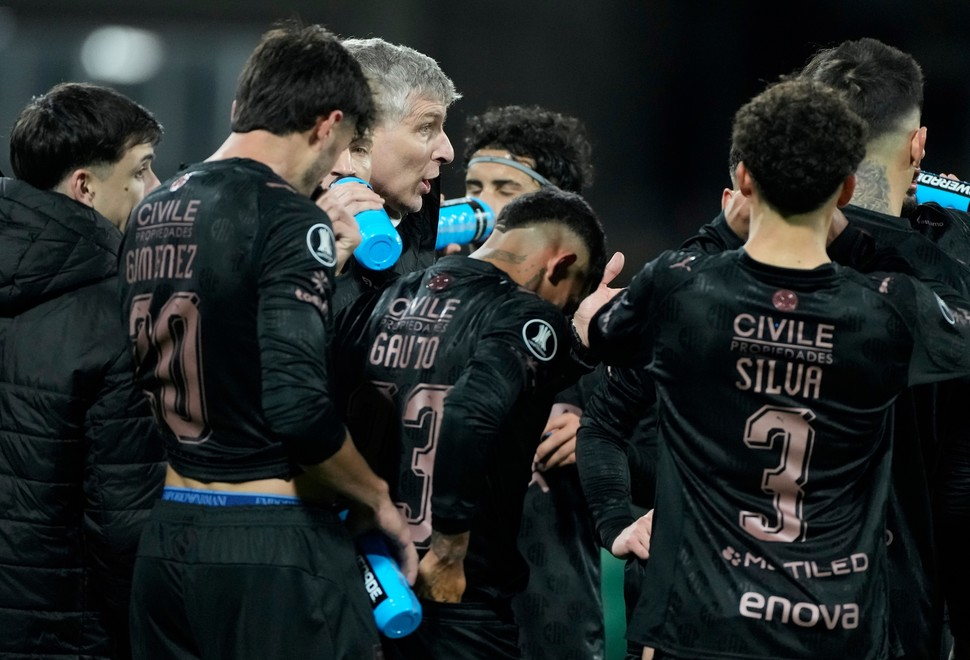
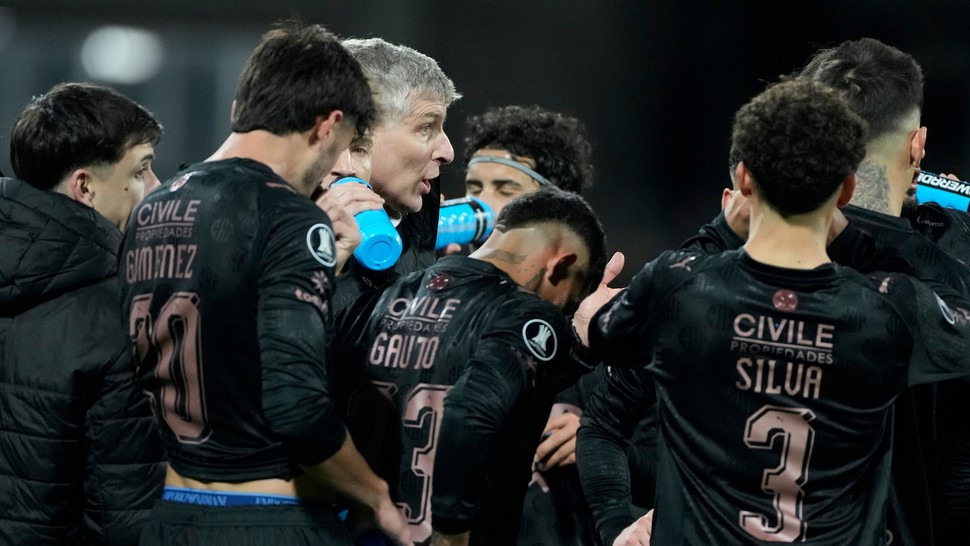
La página ahora es capaz de cargar noticias de manera dinámica

diff --git a/src/Noticia.jsx b/src/Noticia.jsx
@@ -1,13 +1,40 @@
 import { useParams } from "react-router";
+import { useState, useEffect } from 'react';
 import BarraNavegación from "./BarraNavegacion";
 import * as Recibir from "./Noticias";
 import PersonalizarLectura from "./PersonalizarLecturaPopup";
 
-export default function Noticia ({}) { 
+
+export default function Noticia () {
 	const params = useParams();
 	const id = params.noti;
 	const NOTI_INFO = Recibir.noticias[id];
 
+	const [text, setText] = useState(null);
+	
+	
+	async function get_text(id){
+		const module = await import(`/src/assets/noticias/${id}.jsx`);
+		console.log(module);
+		const text = module.Devolver();
+		return (text);
+	}
+	
+	useEffect(() => {
+		let ignore = false;
+		get_text(id).then(r => {
+			if (!ignore) {
+				setText(r);
+			}
+		});
+		
+		return () => {
+			ignore = true;
+		};
+	}, [id]);
+	
+	
+	
 	return (
 		<div>
 			<BarraNavegación />
@@ -28,43 +55,8 @@ export default function Noticia ({}) {
 					<div>{NOTI_INFO.medio + " ⋅ " + NOTI_INFO.categorias}</div>
 					<div className="md:hidden">{NOTI_INFO.descripcion}</div>
 					
-					Lorem ipsum (/ˌlɔː.rəm ˈɪp.səm/ LOR-əm IP-səm) is a dummy or placeholder text commonly used in graphic design, publishing, and web development. It is typically a corrupted version of De finibus bonorum et malorum, a 1st-century BC text by the Roman statesman and philosopher Cicero, with words altered, added, and removed to make it nonsensical and improper Latin. The first two words are the truncation of dolorem ipsum ("pain itself"). Lorem ipsum's purpose is to permit a page layout to be designed, independently of the copy that will subsequently populate it, or to demonstrate various fonts of a typeface without meaningful text that could be distracting.<br />
-					Versions of the Lorem ipsum text have been used in typesetting since the late 1960s, when Letraset transfer sheets containing the placeholder text popularized it.[1] Popular word processors, including Pages and Microsoft Word, have since adopted Lorem ipsum,[2] as have many LaTeX packages,[3][4][5] web content managers such as Joomla! and WordPress, and CSS libraries such as Semantic UI.[not in body]<br />
-					Lorem ipsum (/ˌlɔː.rəm ˈɪp.səm/ LOR-əm IP-səm) is a dummy or placeholder text commonly used in graphic design, publishing, and web development. It is typically a corrupted version of De finibus bonorum et malorum, a 1st-century BC text by the Roman statesman and philosopher Cicero, with words altered, added, and removed to make it nonsensical and improper Latin. The first two words are the truncation of dolorem ipsum ("pain itself"). Lorem ipsum's purpose is to permit a page layout to be designed, independently of the copy that will subsequently populate it, or to demonstrate various fonts of a typeface without meaningful text that could be distracting.<br />
-					Versions of the Lorem ipsum text have been used in typesetting since the late 1960s, when Letraset transfer sheets containing the placeholder text popularized it.[1] Popular word processors, including Pages and Microsoft Word, have since adopted Lorem ipsum,[2] as have many LaTeX packages,[3][4][5] web content managers such as Joomla! and WordPress, and CSS libraries such as Semantic UI.[not in body]<br />
-					Lorem ipsum (/ˌlɔː.rəm ˈɪp.səm/ LOR-əm IP-səm) is a dummy or placeholder text commonly used in graphic design, publishing, and web development. It is typically a corrupted version of De finibus bonorum et malorum, a 1st-century BC text by the Roman statesman and philosopher Cicero, with words altered, added, and removed to make it nonsensical and improper Latin. The first two words are the truncation of dolorem ipsum ("pain itself"). Lorem ipsum's purpose is to permit a page layout to be designed, independently of the copy that will subsequently populate it, or to demonstrate various fonts of a typeface without meaningful text that could be distracting.<br />
-					Versions of the Lorem ipsum text have been used in typesetting since the late 1960s, when Letraset transfer sheets containing the placeholder text popularized it.[1] Popular word processors, including Pages and Microsoft Word, have since adopted Lorem ipsum,[2] as have many LaTeX packages,[3][4][5] web content managers such as Joomla! and WordPress, and CSS libraries such as Semantic UI.[not in body]<br />
-					Lorem ipsum (/ˌlɔː.rəm ˈɪp.səm/ LOR-əm IP-səm) is a dummy or placeholder text commonly used in graphic design, publishing, and web development. It is typically a corrupted version of De finibus bonorum et malorum, a 1st-century BC text by the Roman statesman and philosopher Cicero, with words altered, added, and removed to make it nonsensical and improper Latin. The first two words are the truncation of dolorem ipsum ("pain itself"). Lorem ipsum's purpose is to permit a page layout to be designed, independently of the copy that will subsequently populate it, or to demonstrate various fonts of a typeface without meaningful text that could be distracting.<br />
-					Versions of the Lorem ipsum text have been used in typesetting since the late 1960s, when Letraset transfer sheets containing the placeholder text popularized it.[1] Popular word processors, including Pages and Microsoft Word, have since adopted Lorem ipsum,[2] as have many LaTeX packages,[3][4][5] web content managers such as Joomla! and WordPress, and CSS libraries such as Semantic UI.[not in body]<br />
-					Lorem ipsum (/ˌlɔː.rəm ˈɪp.səm/ LOR-əm IP-səm) is a dummy or placeholder text commonly used in graphic design, publishing, and web development. It is typically a corrupted version of De finibus bonorum et malorum, a 1st-century BC text by the Roman statesman and philosopher Cicero, with words altered, added, and removed to make it nonsensical and improper Latin. The first two words are the truncation of dolorem ipsum ("pain itself"). Lorem ipsum's purpose is to permit a page layout to be designed, independently of the copy that will subsequently populate it, or to demonstrate various fonts of a typeface without meaningful text that could be distracting.<br />
-					Versions of the Lorem ipsum text have been used in typesetting since the late 1960s, when Letraset transfer sheets containing the placeholder text popularized it.[1] Popular word processors, including Pages and Microsoft Word, have since adopted Lorem ipsum,[2] as have many LaTeX packages,[3][4][5] web content managers such as Joomla! and WordPress, and CSS libraries such as Semantic UI.[not in body]<br />
-					Lorem ipsum (/ˌlɔː.rəm ˈɪp.səm/ LOR-əm IP-səm) is a dummy or placeholder text commonly used in graphic design, publishing, and web development. It is typically a corrupted version of De finibus bonorum et malorum, a 1st-century BC text by the Roman statesman and philosopher Cicero, with words altered, added, and removed to make it nonsensical and improper Latin. The first two words are the truncation of dolorem ipsum ("pain itself"). Lorem ipsum's purpose is to permit a page layout to be designed, independently of the copy that will subsequently populate it, or to demonstrate various fonts of a typeface without meaningful text that could be distracting.<br />
-					Versions of the Lorem ipsum text have been used in typesetting since the late 1960s, when Letraset transfer sheets containing the placeholder text popularized it.[1] Popular word processors, including Pages and Microsoft Word, have since adopted Lorem ipsum,[2] as have many LaTeX packages,[3][4][5] web content managers such as Joomla! and WordPress, and CSS libraries such as Semantic UI.[not in body]<br />
-					Lorem ipsum (/ˌlɔː.rəm ˈɪp.səm/ LOR-əm IP-səm) is a dummy or placeholder text commonly used in graphic design, publishing, and web development. It is typically a corrupted version of De finibus bonorum et malorum, a 1st-century BC text by the Roman statesman and philosopher Cicero, with words altered, added, and removed to make it nonsensical and improper Latin. The first two words are the truncation of dolorem ipsum ("pain itself"). Lorem ipsum's purpose is to permit a page layout to be designed, independently of the copy that will subsequently populate it, or to demonstrate various fonts of a typeface without meaningful text that could be distracting.<br />
-					Versions of the Lorem ipsum text have been used in typesetting since the late 1960s, when Letraset transfer sheets containing the placeholder text popularized it.[1] Popular word processors, including Pages and Microsoft Word, have since adopted Lorem ipsum,[2] as have many LaTeX packages,[3][4][5] web content managers such as Joomla! and WordPress, and CSS libraries such as Semantic UI.[not in body]<br />
-					Lorem ipsum (/ˌlɔː.rəm ˈɪp.səm/ LOR-əm IP-səm) is a dummy or placeholder text commonly used in graphic design, publishing, and web development. It is typically a corrupted version of De finibus bonorum et malorum, a 1st-century BC text by the Roman statesman and philosopher Cicero, with words altered, added, and removed to make it nonsensical and improper Latin. The first two words are the truncation of dolorem ipsum ("pain itself"). Lorem ipsum's purpose is to permit a page layout to be designed, independently of the copy that will subsequently populate it, or to demonstrate various fonts of a typeface without meaningful text that could be distracting.<br />
-					Versions of the Lorem ipsum text have been used in typesetting since the late 1960s, when Letraset transfer sheets containing the placeholder text popularized it.[1] Popular word processors, including Pages and Microsoft Word, have since adopted Lorem ipsum,[2] as have many LaTeX packages,[3][4][5] web content managers such as Joomla! and WordPress, and CSS libraries such as Semantic UI.[not in body]<br />
-					Lorem ipsum (/ˌlɔː.rəm ˈɪp.səm/ LOR-əm IP-səm) is a dummy or placeholder text commonly used in graphic design, publishing, and web development. It is typically a corrupted version of De finibus bonorum et malorum, a 1st-century BC text by the Roman statesman and philosopher Cicero, with words altered, added, and removed to make it nonsensical and improper Latin. The first two words are the truncation of dolorem ipsum ("pain itself"). Lorem ipsum's purpose is to permit a page layout to be designed, independently of the copy that will subsequently populate it, or to demonstrate various fonts of a typeface without meaningful text that could be distracting.<br />
-					Versions of the Lorem ipsum text have been used in typesetting since the late 1960s, when Letraset transfer sheets containing the placeholder text popularized it.[1] Popular word processors, including Pages and Microsoft Word, have since adopted Lorem ipsum,[2] as have many LaTeX packages,[3][4][5] web content managers such as Joomla! and WordPress, and CSS libraries such as Semantic UI.[not in body]<br />
-					Lorem ipsum (/ˌlɔː.rəm ˈɪp.səm/ LOR-əm IP-səm) is a dummy or placeholder text commonly used in graphic design, publishing, and web development. It is typically a corrupted version of De finibus bonorum et malorum, a 1st-century BC text by the Roman statesman and philosopher Cicero, with words altered, added, and removed to make it nonsensical and improper Latin. The first two words are the truncation of dolorem ipsum ("pain itself"). Lorem ipsum's purpose is to permit a page layout to be designed, independently of the copy that will subsequently populate it, or to demonstrate various fonts of a typeface without meaningful text that could be distracting.<br />
-					Versions of the Lorem ipsum text have been used in typesetting since the late 1960s, when Letraset transfer sheets containing the placeholder text popularized it.[1] Popular word processors, including Pages and Microsoft Word, have since adopted Lorem ipsum,[2] as have many LaTeX packages,[3][4][5] web content managers such as Joomla! and WordPress, and CSS libraries such as Semantic UI.[not in body]<br />
-					Lorem ipsum (/ˌlɔː.rəm ˈɪp.səm/ LOR-əm IP-səm) is a dummy or placeholder text commonly used in graphic design, publishing, and web development. It is typically a corrupted version of De finibus bonorum et malorum, a 1st-century BC text by the Roman statesman and philosopher Cicero, with words altered, added, and removed to make it nonsensical and improper Latin. The first two words are the truncation of dolorem ipsum ("pain itself"). Lorem ipsum's purpose is to permit a page layout to be designed, independently of the copy that will subsequently populate it, or to demonstrate various fonts of a typeface without meaningful text that could be distracting.<br />
-					Versions of the Lorem ipsum text have been used in typesetting since the late 1960s, when Letraset transfer sheets containing the placeholder text popularized it.[1] Popular word processors, including Pages and Microsoft Word, have since adopted Lorem ipsum,[2] as have many LaTeX packages,[3][4][5] web content managers such as Joomla! and WordPress, and CSS libraries such as Semantic UI.[not in body]<br />
-					Lorem ipsum (/ˌlɔː.rəm ˈɪp.səm/ LOR-əm IP-səm) is a dummy or placeholder text commonly used in graphic design, publishing, and web development. It is typically a corrupted version of De finibus bonorum et malorum, a 1st-century BC text by the Roman statesman and philosopher Cicero, with words altered, added, and removed to make it nonsensical and improper Latin. The first two words are the truncation of dolorem ipsum ("pain itself"). Lorem ipsum's purpose is to permit a page layout to be designed, independently of the copy that will subsequently populate it, or to demonstrate various fonts of a typeface without meaningful text that could be distracting.<br />
-					Versions of the Lorem ipsum text have been used in typesetting since the late 1960s, when Letraset transfer sheets containing the placeholder text popularized it.[1] Popular word processors, including Pages and Microsoft Word, have since adopted Lorem ipsum,[2] as have many LaTeX packages,[3][4][5] web content managers such as Joomla! and WordPress, and CSS libraries such as Semantic UI.[not in body]<br />
-					Lorem ipsum (/ˌlɔː.rəm ˈɪp.səm/ LOR-əm IP-səm) is a dummy or placeholder text commonly used in graphic design, publishing, and web development. It is typically a corrupted version of De finibus bonorum et malorum, a 1st-century BC text by the Roman statesman and philosopher Cicero, with words altered, added, and removed to make it nonsensical and improper Latin. The first two words are the truncation of dolorem ipsum ("pain itself"). Lorem ipsum's purpose is to permit a page layout to be designed, independently of the copy that will subsequently populate it, or to demonstrate various fonts of a typeface without meaningful text that could be distracting.<br />
-					Versions of the Lorem ipsum text have been used in typesetting since the late 1960s, when Letraset transfer sheets containing the placeholder text popularized it.[1] Popular word processors, including Pages and Microsoft Word, have since adopted Lorem ipsum,[2] as have many LaTeX packages,[3][4][5] web content managers such as Joomla! and WordPress, and CSS libraries such as Semantic UI.[not in body]<br />
-					Lorem ipsum (/ˌlɔː.rəm ˈɪp.səm/ LOR-əm IP-səm) is a dummy or placeholder text commonly used in graphic design, publishing, and web development. It is typically a corrupted version of De finibus bonorum et malorum, a 1st-century BC text by the Roman statesman and philosopher Cicero, with words altered, added, and removed to make it nonsensical and improper Latin. The first two words are the truncation of dolorem ipsum ("pain itself"). Lorem ipsum's purpose is to permit a page layout to be designed, independently of the copy that will subsequently populate it, or to demonstrate various fonts of a typeface without meaningful text that could be distracting.<br />
-					Versions of the Lorem ipsum text have been used in typesetting since the late 1960s, when Letraset transfer sheets containing the placeholder text popularized it.[1] Popular word processors, including Pages and Microsoft Word, have since adopted Lorem ipsum,[2] as have many LaTeX packages,[3][4][5] web content managers such as Joomla! and WordPress, and CSS libraries such as Semantic UI.[not in body]<br />
-					Lorem ipsum (/ˌlɔː.rəm ˈɪp.səm/ LOR-əm IP-səm) is a dummy or placeholder text commonly used in graphic design, publishing, and web development. It is typically a corrupted version of De finibus bonorum et malorum, a 1st-century BC text by the Roman statesman and philosopher Cicero, with words altered, added, and removed to make it nonsensical and improper Latin. The first two words are the truncation of dolorem ipsum ("pain itself"). Lorem ipsum's purpose is to permit a page layout to be designed, independently of the copy that will subsequently populate it, or to demonstrate various fonts of a typeface without meaningful text that could be distracting.<br />
-					Versions of the Lorem ipsum text have been used in typesetting since the late 1960s, when Letraset transfer sheets containing the placeholder text popularized it.[1] Popular word processors, including Pages and Microsoft Word, have since adopted Lorem ipsum,[2] as have many LaTeX packages,[3][4][5] web content managers such as Joomla! and WordPress, and CSS libraries such as Semantic UI.[not in body]<br />
-					Lorem ipsum (/ˌlɔː.rəm ˈɪp.səm/ LOR-əm IP-səm) is a dummy or placeholder text commonly used in graphic design, publishing, and web development. It is typically a corrupted version of De finibus bonorum et malorum, a 1st-century BC text by the Roman statesman and philosopher Cicero, with words altered, added, and removed to make it nonsensical and improper Latin. The first two words are the truncation of dolorem ipsum ("pain itself"). Lorem ipsum's purpose is to permit a page layout to be designed, independently of the copy that will subsequently populate it, or to demonstrate various fonts of a typeface without meaningful text that could be distracting.<br />
-					Versions of the Lorem ipsum text have been used in typesetting since the late 1960s, when Letraset transfer sheets containing the placeholder text popularized it.[1] Popular word processors, including Pages and Microsoft Word, have since adopted Lorem ipsum,[2] as have many LaTeX packages,[3][4][5] web content managers such as Joomla! and WordPress, and CSS libraries such as Semantic UI.[not in body]<br />
-					Lorem ipsum (/ˌlɔː.rəm ˈɪp.səm/ LOR-əm IP-səm) is a dummy or placeholder text commonly used in graphic design, publishing, and web development. It is typically a corrupted version of De finibus bonorum et malorum, a 1st-century BC text by the Roman statesman and philosopher Cicero, with words altered, added, and removed to make it nonsensical and improper Latin. The first two words are the truncation of dolorem ipsum ("pain itself"). Lorem ipsum's purpose is to permit a page layout to be designed, independently of the copy that will subsequently populate it, or to demonstrate various fonts of a typeface without meaningful text that could be distracting.<br />
-					Versions of the Lorem ipsum text have been used in typesetting since the late 1960s, when Letraset transfer sheets containing the placeholder text popularized it.[1] Popular word processors, including Pages and Microsoft Word, have since adopted Lorem ipsum,[2] as have many LaTeX packages,[3][4][5] web content managers such as Joomla! and WordPress, and CSS libraries such as Semantic UI.[not in body]<br />
-					Lorem ipsum (/ˌlɔː.rəm ˈɪp.səm/ LOR-əm IP-səm) is a dummy or placeholder text commonly used in graphic design, publishing, and web development. It is typically a corrupted version of De finibus bonorum et malorum, a 1st-century BC text by the Roman statesman and philosopher Cicero, with words altered, added, and removed to make it nonsensical and improper Latin. The first two words are the truncation of dolorem ipsum ("pain itself"). Lorem ipsum's purpose is to permit a page layout to be designed, independently of the copy that will subsequently populate it, or to demonstrate various fonts of a typeface without meaningful text that could be distracting.<br />
-					Versions of the Lorem ipsum text have been used in typesetting since the late 1960s, when Letraset transfer sheets containing the placeholder text popularized it.[1] Popular word processors, including Pages and Microsoft Word, have since adopted Lorem ipsum,[2] as have many LaTeX packages,[3][4][5] web content managers such as Joomla! and WordPress, and CSS libraries such as Semantic UI.[not in body]<br />
-
+					{text}
+					
 				</div>
 				
 				<div className="w-full sticky top-0 h-fit hidden xl:flex justify-end">
@@ -76,3 +68,4 @@ export default function Noticia ({}) {
 		</div>
 	);
 }
+

diff --git a/src/assets/noticias/0.jsx b/src/assets/noticias/0.jsx
@@ -1,0 +1,19 @@
+export function Devolver() { return (
+	<div className="NOTICIA_CONTENT">
+		<h1>El oro en cifras</h1>
+		
+		Hoy, el precio del oro se sitúa en 4161.515 dólares por onza, mostrando un incremento de 84.3 dólares en comparación con su cierre anterior. Este notable aumento del 2.07% ha frenado la atención en los mercados financieros y plantea interrogantes sobre las futuras tendencias del metal precioso.
+		
+		<h1>Detalles del mercado</h1>
+		
+		El valor del oro ha mostrado una amplia fluctuación en el día. La cotización ha abierto en 4077.22 dólares, alcanzando un máximo de 4179.575 dólares y un mínimo de 4065.545 dólares. Estos movimientos reflejan la volatilidad inherente al mercado del oro, que se ve influenciado por múltiples factores económicos y geopolíticos.
+		
+		<h1>Impacto en la economía local</h1>
+		
+		Este aumento en el precio del oro puede tener un impacto significativo en la economía de Santa Cruz y en la región de Rio Gallegos. Los mineros locales y las empresas que dependen de la extracción del metal precioso podrían beneficiarse de esta subida, al igual que los inversores que optan por diversificar sus portafolios a través de metales preciosos.
+		
+		<h1>Expectativas a futuro</h1>
+		
+		Con el oro actualmente valorado en 4161.515 dólares, los analistas están observando de cerca las tendencias del mercado. Muchos se preguntan si este aumento se mantendrá a largo plazo o si será una fluctuación pasajera. Sin duda, el comportamiento del oro seguirá siendo un tema de interés y análisis para inversores y economistas por igual.
+	</div>
+); }

diff --git a/src/AutoPortada.jsx b/src/AutoPortada.jsx
@@ -1,9 +1,7 @@
 import PortadaNoticia from "./PortadaNoticia";
-import * as Recibir from "./Noticias";
 
 export default function AutoPortada ({noticia, tipo=""}) { 
 	if (noticia == undefined) { return; }
-	const lista_nots = Recibir.noticias;
 
 	return (
 		<PortadaNoticia
@@ -13,7 +11,7 @@ export default function AutoPortada ({noticia, tipo=""}) {
 			categorias={noticia.categorias}
 			descripcion={noticia.descripcion}
 			tipo={tipo}
-			url={"/n/"+lista_nots.indexOf(noticia)}
+			url={"/n/"+noticia.id}
 		/>
 	); 
 }

diff --git a/src/main.css b/src/main.css
@@ -150,3 +150,6 @@ h1{
 	box-shadow: 0px 0px 64px rgba(0, 0, 0, 0.4);
 }
 
+.NOTICIA_CONTENT > h1 {
+	margin-top: 1.5rem;
+}
